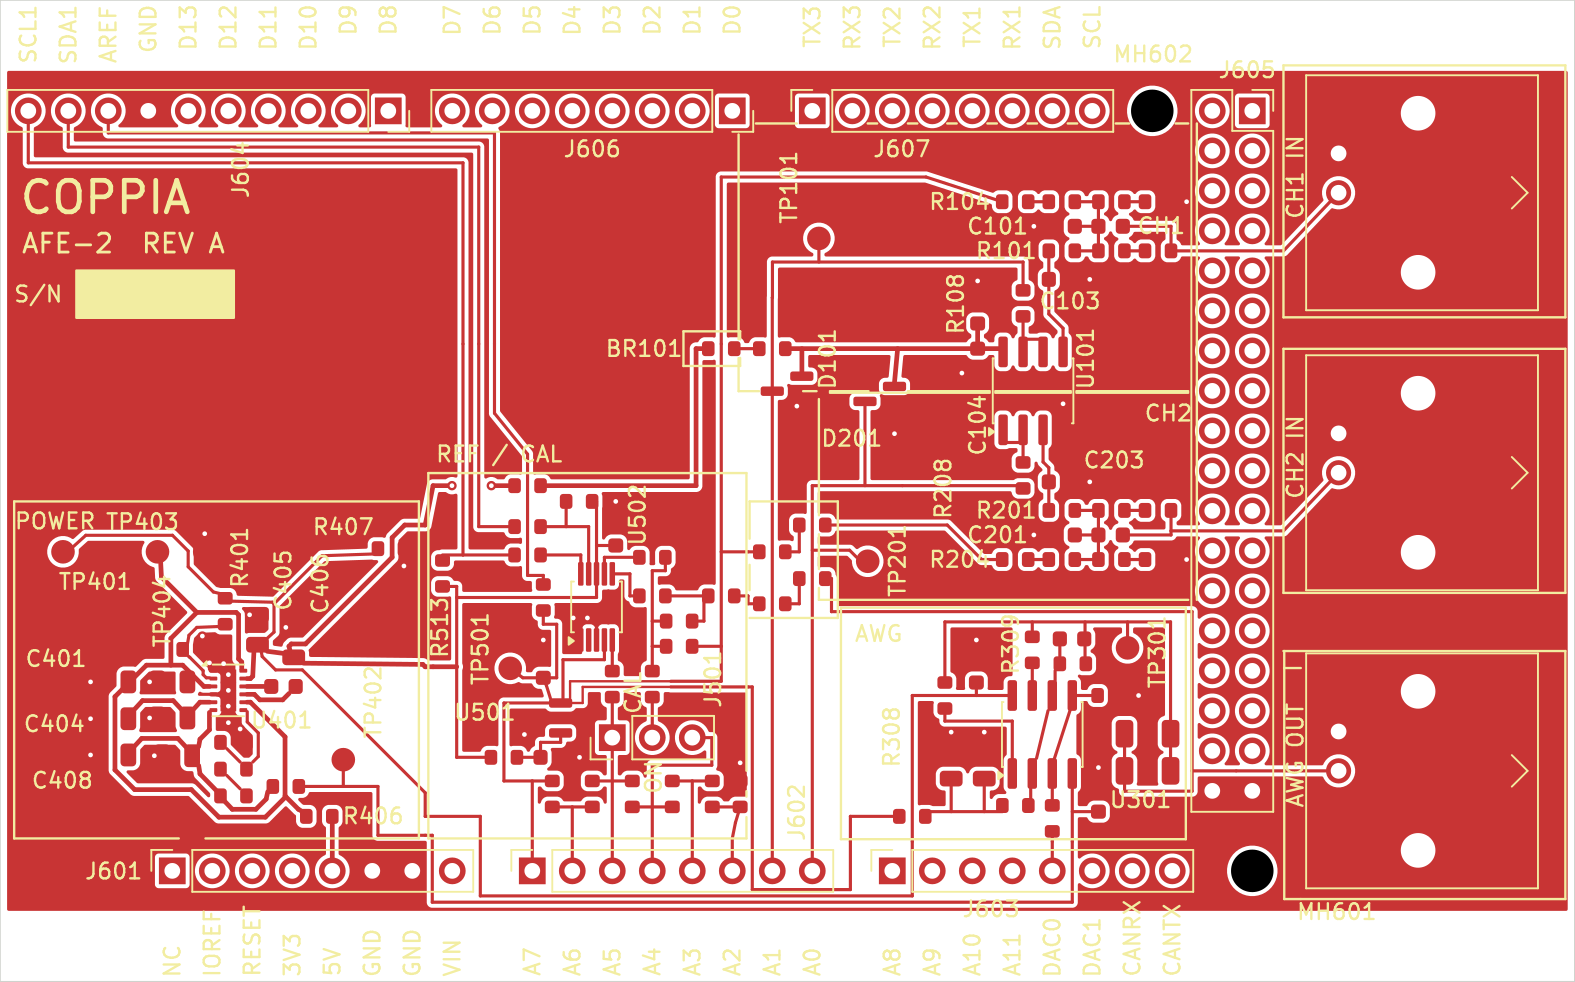
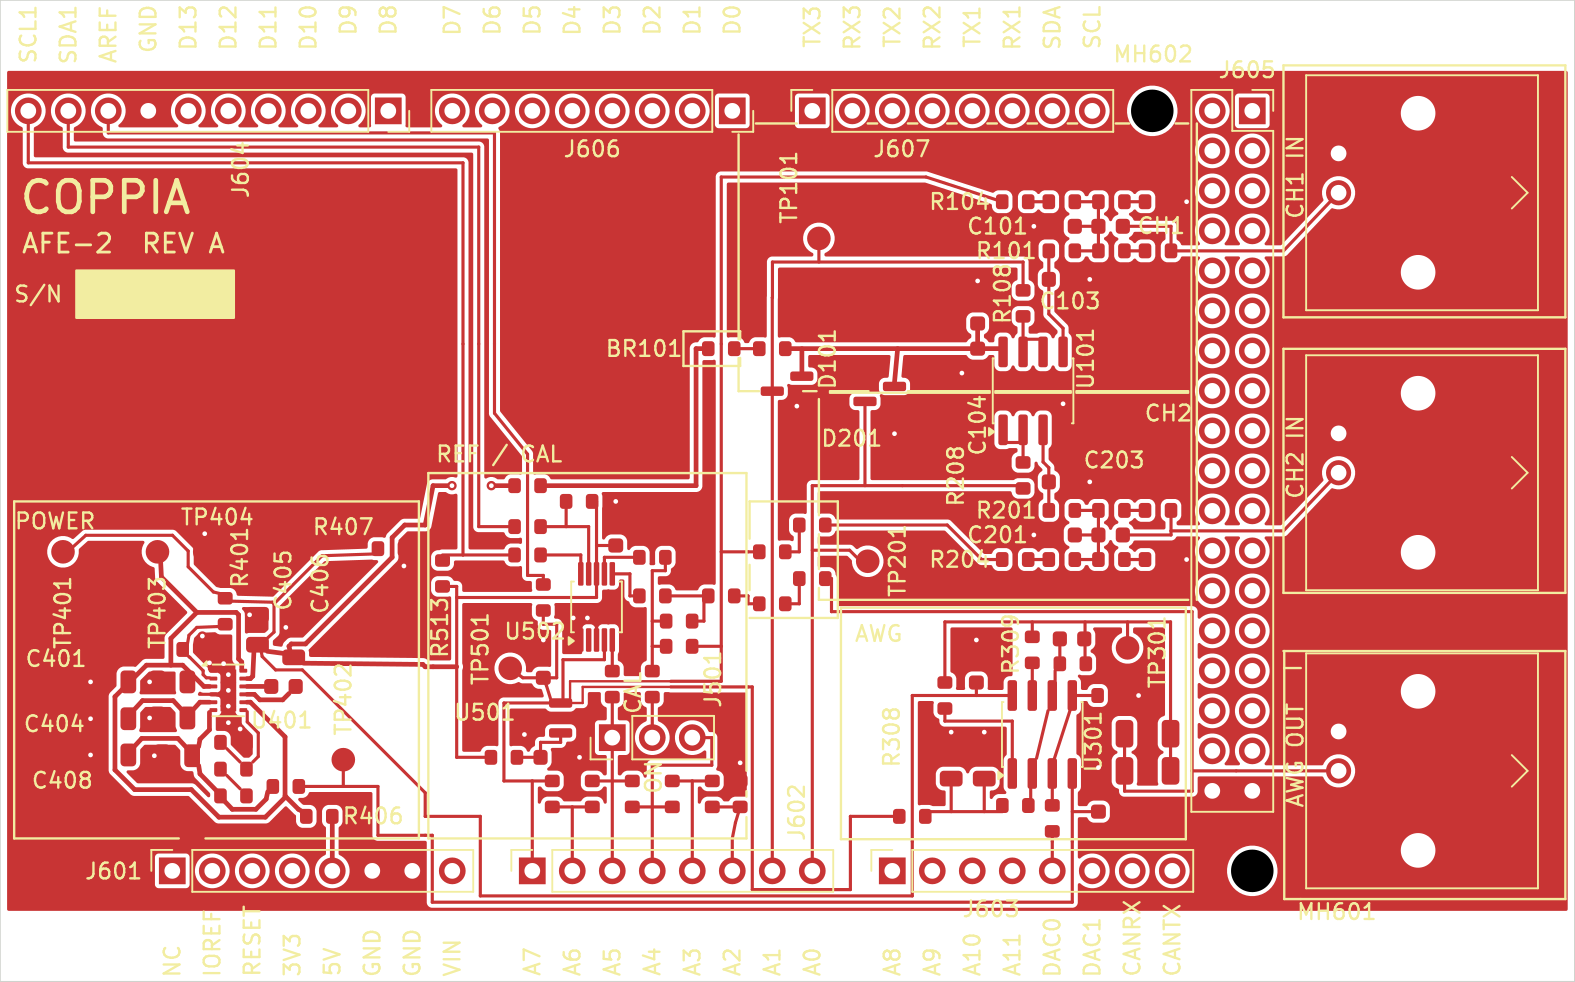
hardware: outputs and 2x crops after the label fixes (fab silk member, GATE3, renders)
Fab: F_Silkscreen only; DRC and LR rows unchanged.

Claude-Session: https://claude.ai/code/session_01GL7oYC3LK69sf7Yy9PtEQy

diff --git a/hardware/afe-proto/v2/layout/gate3/GATE3.md b/hardware/afe-proto/v2/layout/gate3/GATE3.md
@@ -1,8 +1,8 @@
 # Gate 3 package: COPPIA AFE-2 REV A - v2 AFE integrated layout
 
-Generated by `v2/layout/gate3/build_gate3.sh` (`gate3.py`) at 2026-11-15T17:53. **Every number below is regenerated from the board and the repo by that one command; rerun it when the board changes.** Nothing in this file is typed in; a figure that is not from a repo file is marked *(check)*.
+Generated by `v2/layout/gate3/build_gate3.sh` (`gate3.py`) at 2026-11-15T18:05. **Every number below is regenerated from the board and the repo by that one command; rerun it when the board changes.** Nothing in this file is typed in; a figure that is not from a repo file is marked *(check)*.
 
-- Board: `hardware/afe-proto/v2/layout/integrated/afe-v2-integrated.kicad_pcb`, sha256 `2d8665bb23373e76...`, 112 footprints, 370 track segments, 40 vias, 131 nets.
+- Board: `hardware/afe-proto/v2/layout/integrated/afe-v2-integrated.kicad_pcb`, sha256 `9a47c5b17943db5b...`, 112 footprints, 370 track segments, 40 vias, 131 nets.
 - Tree: git is not in the PCB image, so no commit is recorded; the board's sha256 above is the identity of what was checked.
 - Checks: `pcbtools` rules (`--config v2_layout`), kicad-cli 10.0.8 DRC, in the pinned PCB image.
 
